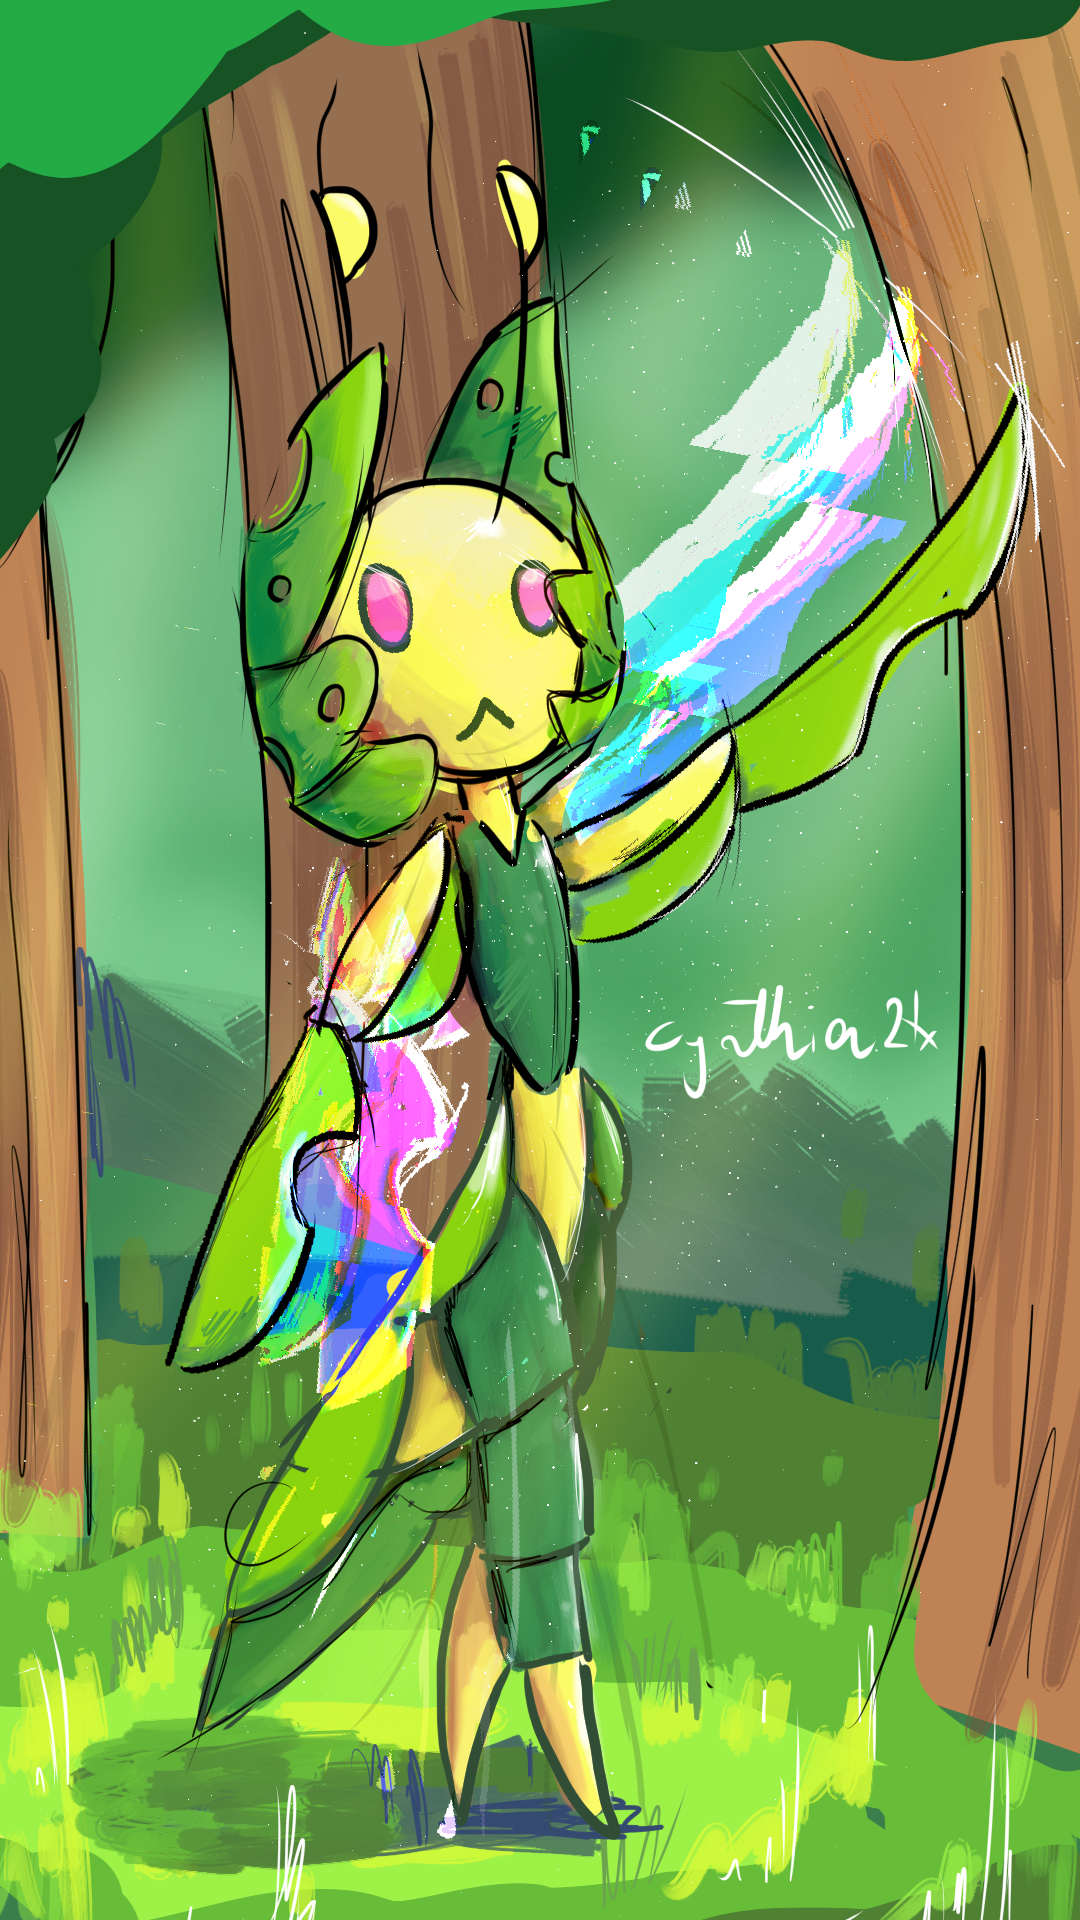
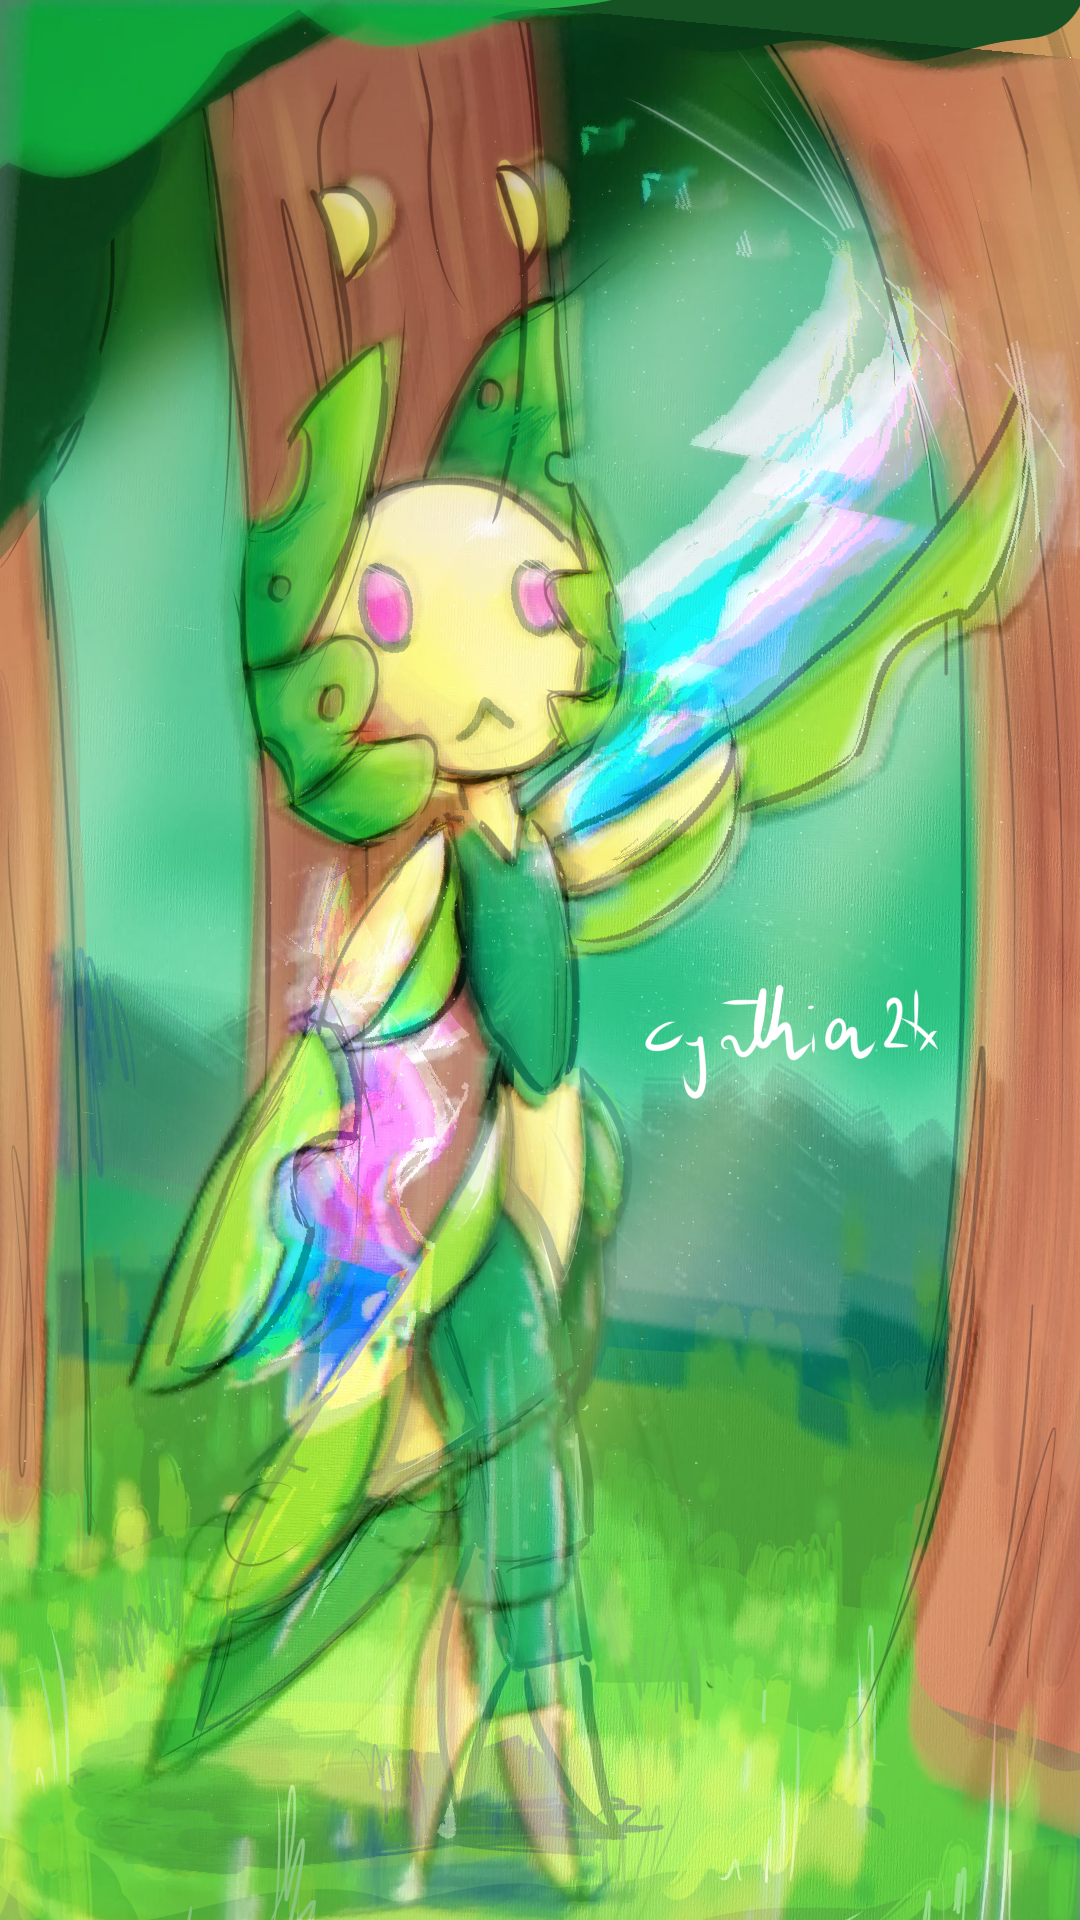
new dawn art and fixed beetd video

diff --git a/buttons.js b/buttons.js
@@ -62,7 +62,7 @@ async function downloadImage(imageSrc, imgname) {
 
 // Load Content
 
-  const square = ["strawberryCapKittens", "strawberryNeglects", "cat", "sylveon","god2", "charlotteLogo", "pfp-background", "sunBeam", "sunechos", "stirringspritesouls", "moondrops", "kaypfp", "beetd", "tompfp-bg", "cynthpfp2", "wooper", "lurantispfp", "kingfisher", "seaAngel", "caterpillarNotExpress", "toothless", "bird"];
+  const square = ["strawberryCapKittens", "strawberryNeglects", "cat", "sylveon","god2", "charlotteLogo", "pfp-background", "sunBeam", "sunechos", "stirringspritesouls", "moondrops", "kaypfp", "beetd", "tompfp-bg", "cynthpfp2", "wooper", "lurantispfp", "kingfisher", "seaAngel", "caterpillarNotExpress", "toothless", "bird", "newdawn"];
 
   const horizontal = ["Project_1", "catbg", "Charlotte", "crazy", "cynthBanner", "preview", "timelapse", "neglectsShowcase", "pawn", "beeTDirl", "terrariaEOC", "neglects2", "stormboundhalloween", "plasmaClocket", "mechaWasp", "lurantis", "charlottesLegacy-Title", "wanderingVillage", "bedman", "redLiz", "vulture", "jellyfish", "puffin", "EmperorCaterpillar", "cavesOfQudDragon", "caterpillar2", "gastrodon", "cormorant", "snowy", "Averevoir"];
 

diff --git a/beetd.html b/beetd.html
@@ -86,7 +86,7 @@ There is a bunch of powers to pick from, annoying wind pushing away all your ins
 
                     <h1> Trailers: </h1>
 
-                        <iframe width="560" height="315"
+                        <iframe width="100%" id="video"
                             src="https://www.youtube-nocookie.com/embed/vFwrqlTvt2Q"
                             title="BeeTD Trailer" frameborder="0"
                             allow="accelerometer; autoplay; clipboard-write; encrypted-media; gyroscope; picture-in-picture; web-share"

diff --git a/beetd.css b/beetd.css
@@ -2,6 +2,11 @@ html, body {
     overscroll-behavior: none;
 }
 
+
+#video {
+    aspect-ratio: 16 / 9;
+}
+
 body {
     margin: 0;
     background: #000;
